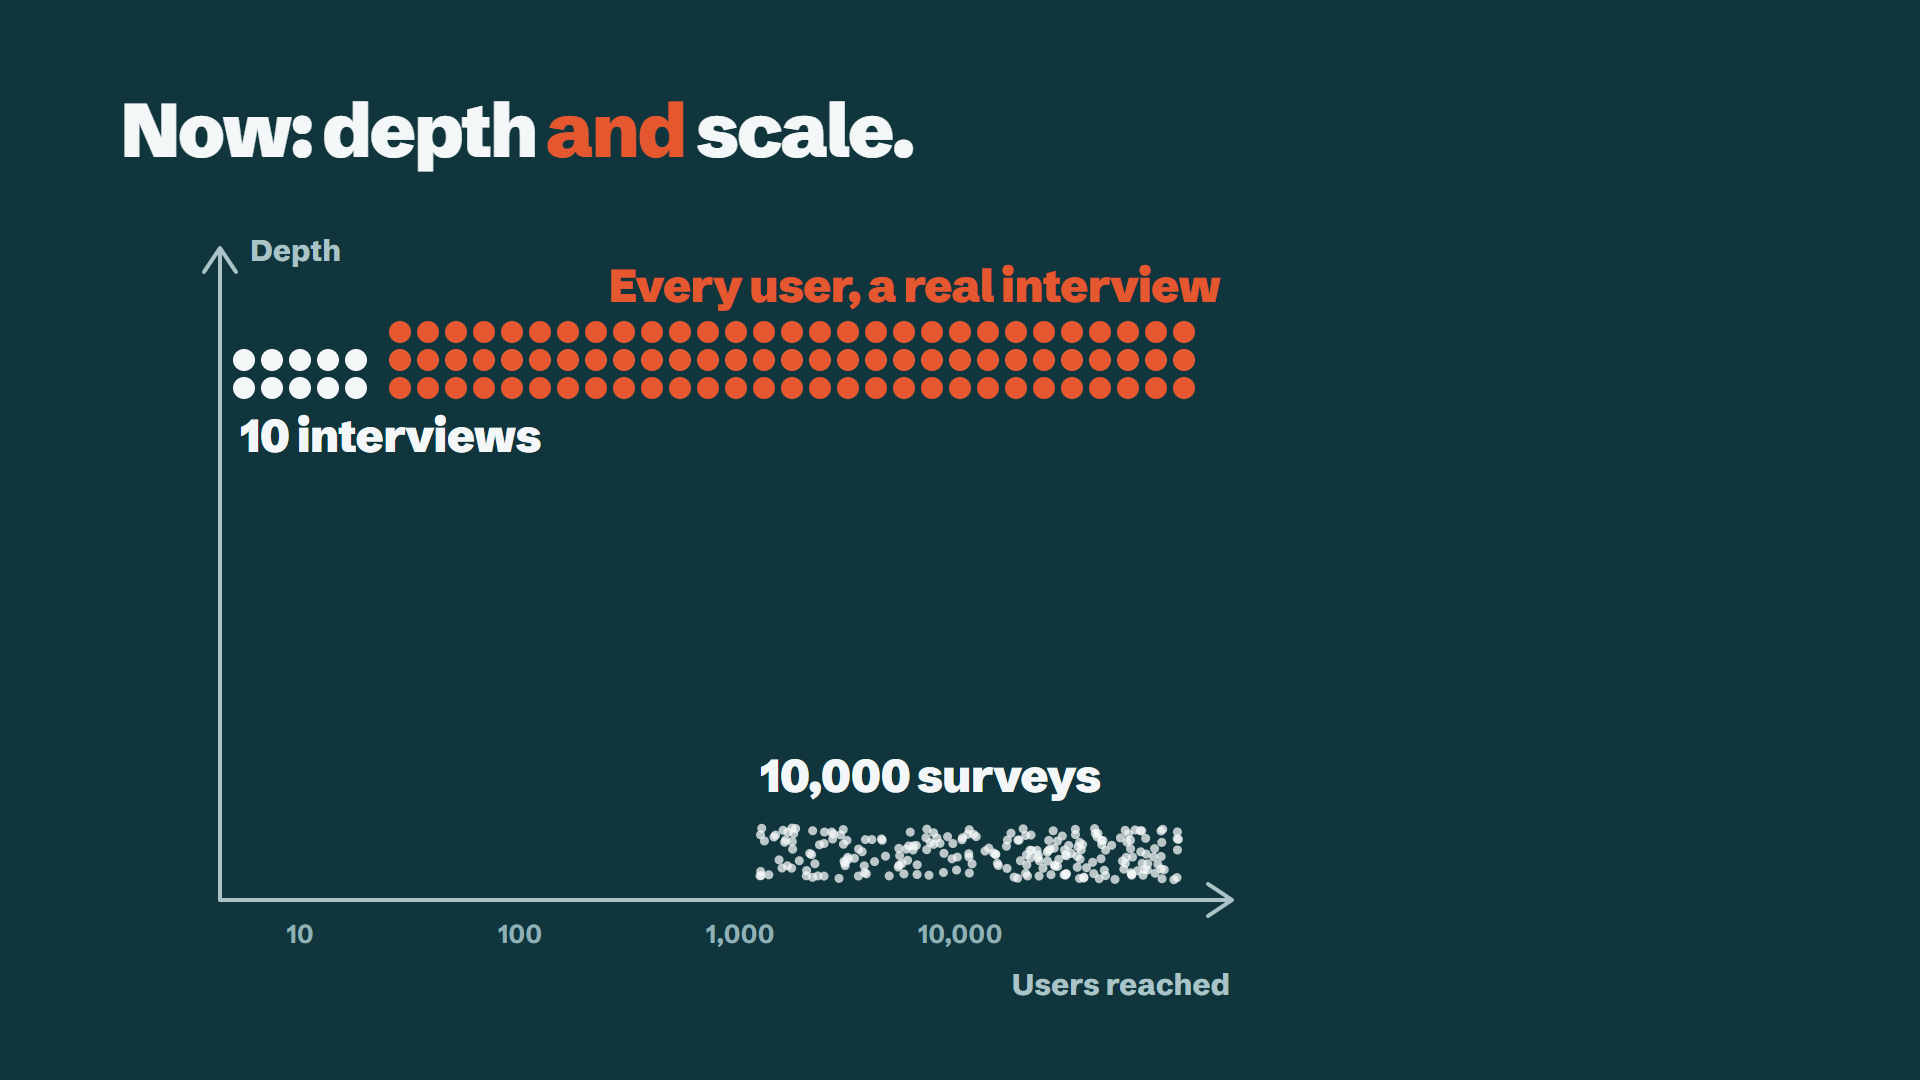
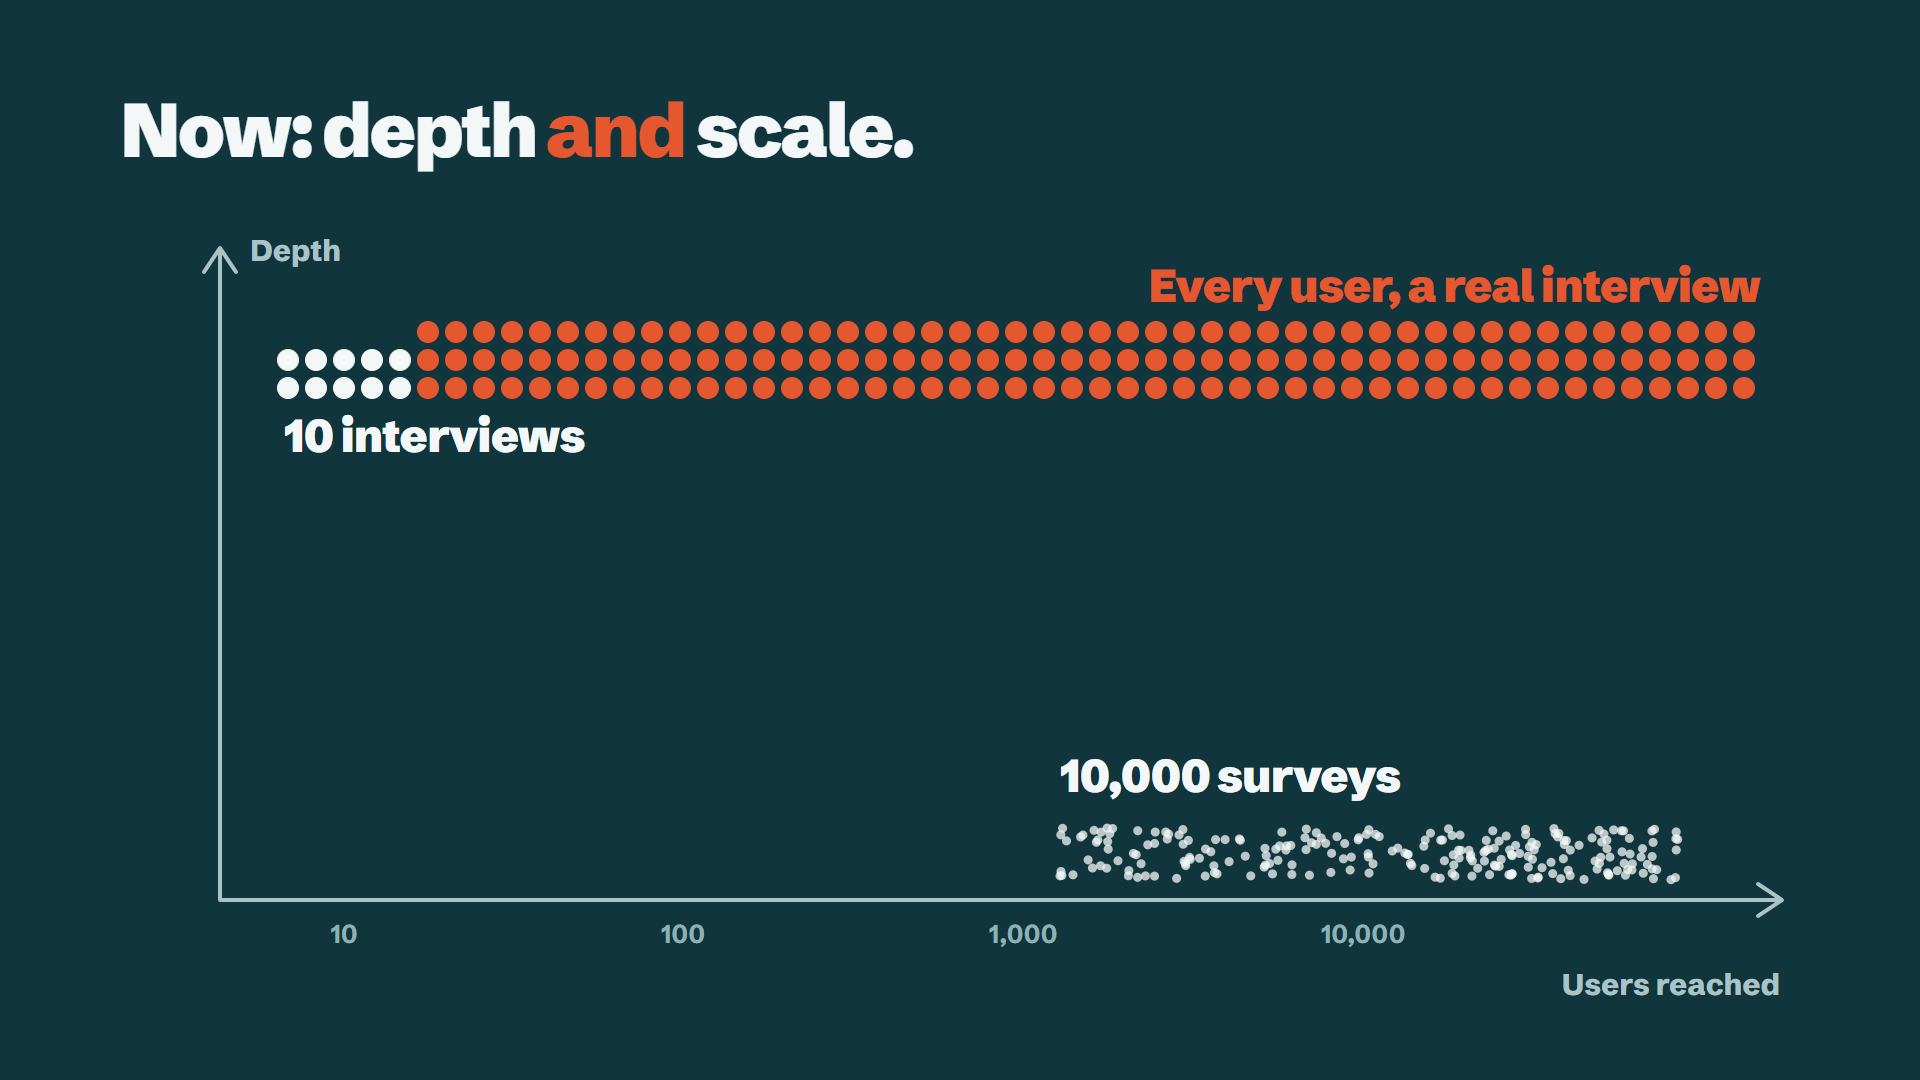
Pitch: depth slajd bez koraka sa AI agentom
Dva koraka (depth or scale, pa depth and scale), grafik preko cele širine. Interview sa prvog koraka vraća na depth korak 2.

diff --git a/pitch/depth.html b/pitch/depth.html
@@ -9,11 +9,10 @@
 <link href="https://fonts.googleapis.com/css2?family=Schibsted+Grotesk:wght@500;600;700;800;900&display=swap" rel="stylesheet">
 <style>
   /*
-    Because · „Dubina ili obim“, 3 koraka uz govor. Isti stil kao ostali slajdovi.
+    Because · „Dubina ili obim“, 2 koraka uz govor. Isti stil kao ostali slajdovi.
     1: do sada: 10 intervjua (duboko, malo ljudi) ili 10.000 anketa (plitko, mnogo ljudi).
     2: sada: svaki korisnik, pravi intervju (narandžasta traka preko celog vrha).
-    3: AI agent sam bira koga i šta da pita i upisuje odgovor nazad.
-    Napred: →, Space, PageDown, Enter, klik. Nazad: ←, PageUp. 1–3: skok. ?beat=2, ?static=1 (za PNG).
+    Napred: →, Space, PageDown, Enter, klik. Nazad: ←, PageUp. 1–2: skok. ?beat=2, ?static=1 (za PNG).
   */
   :root {
     --font: "Schibsted Grotesk", "Segoe UI", system-ui, sans-serif;
@@ -46,14 +45,6 @@
   .label { position: absolute; font-size: 46px; font-weight: 900; letter-spacing: -0.02em; line-height: 1.05; white-space: nowrap; }
   .label.bc { color: var(--voice); text-align: right; }
 
-  /* 3: šta agent radi sam */
-  .agent { position: absolute; left: 1330px; top: 330px; width: 480px; }
-  .agent small { display: block; margin-bottom: 26px; font-size: 30px; font-weight: 800; color: var(--soft); }
-  .agent ul { margin: 0; padding: 0; list-style: none; display: grid; gap: 28px; }
-  .agent li { display: grid; grid-template-columns: 56px 1fr; gap: 20px; align-items: center; font-size: 42px; font-weight: 800; letter-spacing: -0.015em; line-height: 1.1; }
-  .agent li i { width: 56px; height: 56px; border-radius: 50%; background: var(--voice); display: grid; place-items: center; }
-  .agent li svg { width: 30px; height: 30px; fill: none; stroke: #ffffff; stroke-width: 4; stroke-linecap: round; stroke-linejoin: round; }
-
   .progress { position: absolute; left: 50%; bottom: 28px; transform: translateX(-50%); display: flex; gap: 14px; opacity: 0.55; }
   .progress i { width: 10px; height: 10px; border-radius: 50%; background: var(--line); }
   .progress i.on { background: var(--text); }
@@ -66,32 +57,23 @@
   <h1 data-in="2">Now: depth <em>and</em> scale.</h1>
 
   <svg class="plot" viewBox="0 0 1920 1080" aria-hidden="true">
-    <g data-in="1"><path class="axis" id="axes" d="M220 250 V900 H1230 M204 272 L220 248 L236 272 M1208 884 L1232 900 L1208 916"/></g>
+    <g data-in="1"><path class="axis" id="axes" d="M220 250 V900 H1780 M204 272 L220 248 L236 272 M1758 884 L1782 900 L1758 916"/></g>
     <g id="ivs"></g>
     <g id="svs"></g>
     <g id="bcs"></g>
   </svg>
   <div class="ax-label" data-in="1" style="left:250px; top:232px">Depth</div>
-  <div class="ax-label" data-in="1" style="right:690px; top:966px">Users reached</div>
-  <div class="tick" data-in="1" style="left:300px">10</div>
-  <div class="tick" data-in="1" style="left:520px">100</div>
-  <div class="tick" data-in="1" style="left:740px">1,000</div>
-  <div class="tick" data-in="1" style="left:960px">10,000</div>
+  <div class="ax-label" data-in="1" style="right:140px; top:966px">Users reached</div>
+  <div class="tick" data-in="1" style="left:344px">10</div>
+  <div class="tick" data-in="1" style="left:683px">100</div>
+  <div class="tick" data-in="1" style="left:1023px">1,000</div>
+  <div class="tick" data-in="1" style="left:1363px">10,000</div>
 
-  <div class="label" id="l-iv" style="left:240px; top:412px">10 interviews</div>
-  <div class="label" id="l-sv" style="left:760px; top:752px">10,000 surveys</div>
-  <div class="label bc" data-in="2" id="l-bc" style="right:700px; top:262px">Every user, a real interview</div>
+  <div class="label" id="l-iv" style="left:284px; top:412px">10 interviews</div>
+  <div class="label" id="l-sv" style="left:1060px; top:752px">10,000 surveys</div>
+  <div class="label bc" data-in="2" id="l-bc" style="right:160px; top:262px">Every user, a real interview</div>
 
-  <section class="agent" data-in="3" aria-label="The AI agent">
-    <small>The AI agent</small>
-    <ul>
-      <li><i><svg viewBox="0 0 24 24"><path d="M5 12.5 10 17 19 7"/></svg></i>Picks who to ask</li>
-      <li><i><svg viewBox="0 0 24 24"><path d="M5 12.5 10 17 19 7"/></svg></i>Picks what to ask</li>
-      <li><i><svg viewBox="0 0 24 24"><path d="M5 12.5 10 17 19 7"/></svg></i>Writes it back</li>
-    </ul>
-  </section>
-
-  <div class="progress" aria-hidden="true"><i></i><i></i><i></i></div>
+  <div class="progress" aria-hidden="true"><i></i><i></i></div>
 </div>
 
 <script>
@@ -102,7 +84,7 @@
   const RM = matchMedia("(prefers-reduced-motion: reduce)").matches;
   const QUICK = STATIC || RM;
   const EASE = "cubic-bezier(0.22, 1, 0.36, 1)";
-  const STEPS = 3;
+  const STEPS = 2;
   const stage = document.getElementById("stage");
   const $ = (id) => document.getElementById(id);
   if (STATIC) stage.classList.add("static");
@@ -118,12 +100,12 @@
   const NS = "http://www.w3.org/2000/svg";
   const dot = (g, cls, x, y, r) => { const c = document.createElementNS(NS, "circle"); c.setAttribute("class", cls); c.setAttribute("cx", x); c.setAttribute("cy", y); c.setAttribute("r", r); g.appendChild(c); return c; };
   // 10 intervjua: gusto, visoko, levo
-  for (let i = 0; i < 10; i++) dot($("ivs"), "iv", 244 + (i % 5) * 28, 360 + Math.floor(i / 5) * 28, 11);
+  for (let i = 0; i < 10; i++) dot($("ivs"), "iv", 288 + (i % 5) * 28, 360 + Math.floor(i / 5) * 28, 11);
   // 10.000 anketa: sitno, nisko, desno (deterministički „nasumično“)
   let seed = 7; const rnd = () => (seed = (seed * 16807) % 2147483647) / 2147483647;
-  for (let i = 0; i < 230; i++) dot($("svs"), "sv", 760 + rnd() * 420, 828 + rnd() * 52, 4.5);
+  for (let i = 0; i < 230; i++) dot($("svs"), "sv", 1060 + rnd() * 620, 828 + rnd() * 52, 4.5);
   // Because: duboko, preko cele širine
-  for (let x = 400; x <= 1204; x += 28) for (let r = 0; r < 3; r++) dot($("bcs"), "bc", x, 332 + r * 28, 11);
+  for (let x = 428; x <= 1760; x += 28) for (let r = 0; r < 3; r++) dot($("bcs"), "bc", x, 332 + r * 28, 11);
   const ivs = () => [...$("ivs").children], svs = () => [...$("svs").children], bcs = () => [...$("bcs").children];
 
   // ---- motor koraka ----
@@ -157,13 +139,8 @@
       enter() {
         this.final();
         // Traka se širi s leva na desno, od intervjua ka svima.
-        bcs().forEach((c) => pop(c, 250 + (Number(c.getAttribute("cx")) - 400) * 1.4, 340));
+        bcs().forEach((c) => pop(c, 250 + (Number(c.getAttribute("cx")) - 400) * 0.9, 340));
       },
-    },
-    3: {
-      reset() {},
-      final() {},
-      enter() { document.querySelectorAll(".agent li").forEach((li, i) => rise(li, 350 + i * 450, 560)); },
     },
   };
 
@@ -197,7 +174,7 @@
     if (["ArrowRight", "ArrowDown", "PageDown", " ", "Enter"].includes(k)) { e.preventDefault(); go(cur + 1); }
     else if (["ArrowLeft", "ArrowUp", "PageUp", "Backspace"].includes(k)) { e.preventDefault(); go(cur - 1); }
     else if (k === "Home") { cur = 0; go(1); }
-    else if (/^[1-3]$/.test(k)) go(Number(k));
+    else if (/^[1-2]$/.test(k)) go(Number(k));
   });
   stage.addEventListener("click", () => go(cur + 1));
   go(Math.max(1, Math.min(STEPS, Number(params.get("beat")) || 1)));

diff --git a/pitch/interview.html b/pitch/interview.html
@@ -80,7 +80,7 @@
 
 <script>
 (() => {
-  const PREV = "depth.html?beat=3", NEXT = "matter.html";
+  const PREV = "depth.html?beat=2", NEXT = "matter.html";
   const params = new URLSearchParams(location.search);
   const STATIC = params.get("static") === "1";
   const RM = matchMedia("(prefers-reduced-motion: reduce)").matches;
